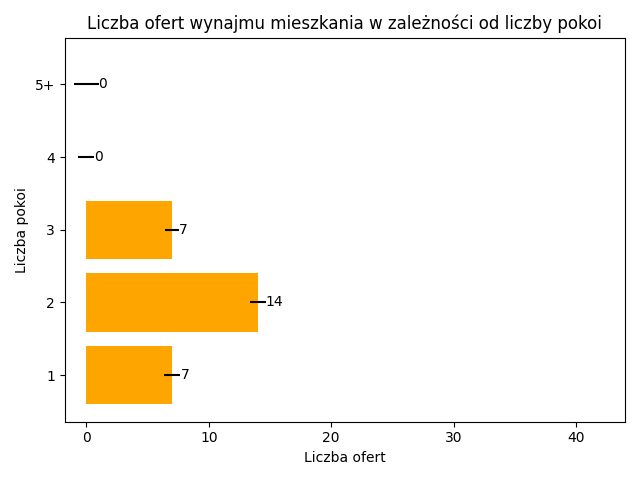
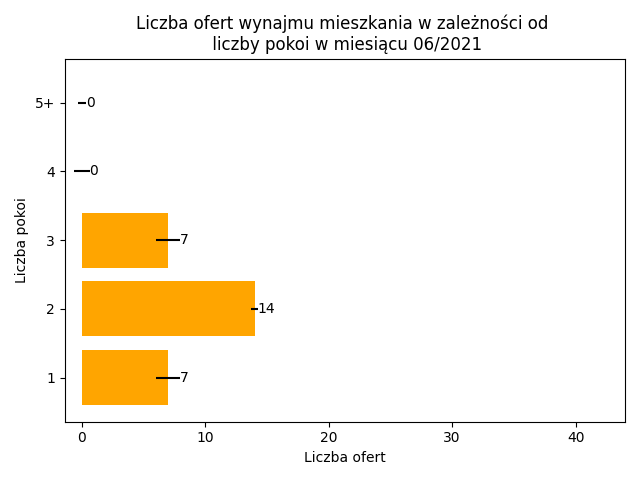
title corrected

diff --git a/plots.py b/plots.py
@@ -31,7 +31,7 @@ def plot_avg_price_for_each_loc():
     ax.set_yticks(y_pos)
     ax.set_yticklabels(locations)
     ax.invert_yaxis()
-    plt.title('Średnia cena wynajmu mieszkania za m^2 \n w zależności od dzielnicy')
+    plt.title('Średnia cena wynajmu mieszkania za m^2 \n w zależności od dzielnicy w miesiącu {}/{}'.format(date[1],date[0]))
     ax.set_xlabel('Średnia cena za m^2 (PLN)')
     ax.set_ylabel('Dzielnica Krakowa')
     ax.bar_label(hbars, fmt='%.2f')
@@ -67,7 +67,7 @@ def plot_number_of_offers():
     ax.set_yticks(y_pos)
     ax.set_yticklabels(locations)
     ax.invert_yaxis()
-    plt.title('Liczba ofert wynajmu mieszkania w zależności \n od dzielnicy ')
+    plt.title('Liczba ofert wynajmu mieszkania w zależności \n od dzielnicy w miesiącu {}/{}'.format(date[1],date[0]))
     ax.set_xlabel('Liczba ofert')
     ax.set_ylabel('Dzielnica Krakowa')
     ax.bar_label(hbars)
@@ -180,7 +180,7 @@ def plot_room_info_all():
     ax.set_yticks(y_pos)
     ax.set_yticklabels(frequency.keys())
     ax.invert_yaxis()
-    plt.title('Liczba ofert wynajmu mieszkania w zależności od liczby pokoi')
+    plt.title('Liczba ofert wynajmu mieszkania w zależności od \n liczby pokoi w miesiącu {}/{}'.format(date[1],date[0]))
     ax.set_xlabel('Liczba ofert')
     ax.bar_label(hbars, fmt='%.0f')
     ax.set_xlim(right=max(frequency.values()) + 100)

diff --git a/location_stat.py b/location_stat.py
@@ -82,6 +82,8 @@ def get_room_info(location):
 
 
 def plot_room_info(location):
+    date = str(datetime.date(datetime.now()))
+    date = date.split("-")
     frequency = get_room_info(location)
     y_pos = np.arange(len(frequency.keys()))
     performance = frequency.values()
@@ -94,7 +96,7 @@ def plot_room_info(location):
     ax.set_xlabel('Liczba ofert')
     ax.bar_label(hbars, fmt='%.0f')
     ax.set_xlim(right=max(frequency.values()) + 30)
-    ax.set_title('Liczba ofert wynajmu mieszkania w zależności od liczby pokoi')
+    ax.set_title('Liczba ofert wynajmu mieszkania w zależności od \n liczby pokoi w miesiącu {}/{}'.format(date[1],date[0]))
     plt.ylabel("Liczba pokoi")
     plt.tight_layout()
     location = location.replace(' ', '_')
